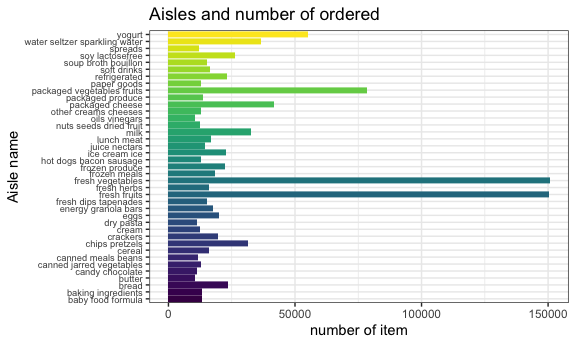
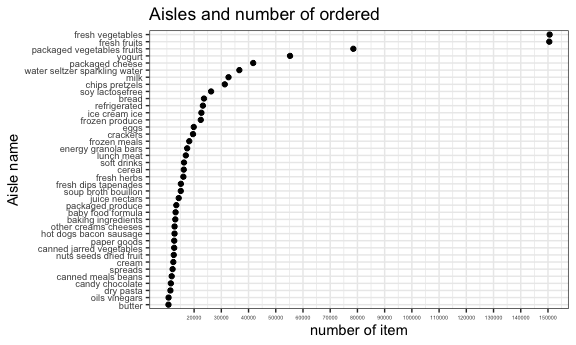
add some comments and change some format

diff --git a/p8105_hw3_fs2757.md b/p8105_hw3_fs2757.md
@@ -38,18 +38,12 @@ aisle, department.*
 ### How many aisles are there, and which aisles are the most items ordered from?
 
 ``` r
-instacart %>% 
+totalaisle=instacart %>% 
   group_by(aisle) %>% 
   summarize(asisle = n()) %>% 
   count()%>% 
   knitr::kable()
-```
-
-|   n |
-|----:|
-| 134 |
-
-``` r
+  
 instacart %>% 
   group_by(aisle) %>% 
   summarize(count = n())%>% 
@@ -195,7 +189,7 @@ instacart %>%
 | beauty                        |    287 |
 
 *In the data `instacart`, there are 134 aisles. Furthermore, the most
-items orders form the data is `fresh vegetables`. *
+items orders form the data is `fresh vegetables` and it has 150609.*
 
 ### Make a plot that shows the number of items ordered in each aisle, limiting this to aisles with more than 10000 items ordered. Arrange aisles sensibly, and organize your plot so others can read it.
 
@@ -203,15 +197,26 @@ items orders form the data is `fresh vegetables`. *
 instacart%>% 
   group_by(aisle) %>% 
   summarize(count = n()) %>% 
-  filter(count > 10000) %>% 
+  mutate(aisle = fct_reorder(factor(aisle), count))%>%
+  filter(count > 10000) %>%
   ggplot() +
-  geom_bar(aes(x = count, y = aisle, fill = aisle),stat = 'identity') +
-  labs(title = "Aisles and number of ordered ",x = "number of item", y = "Aisle name",) +
+  geom_point(aes(x = count, y = aisle, fill = aisle),stat = 'identity') +
+  labs(title = "Aisles and number of ordered ",
+       x = "number of item", 
+       y = "Aisle name",) +
   theme_bw() + 
-  theme(legend.position = 'none',axis.text.y = element_text(size = 7))
+  theme(legend.position = 'none',
+        axis.text.y = element_text(size = 7),
+        axis.text.x = element_text(size = 4))+
+  scale_x_continuous(
+    breaks = c(20000,30000, 40000, 50000, 60000,70000, 80000,90000, 100000,110000 ,120000, 130000,140000,150000, 160000)
+    )
 ```
 
 <img src="p8105_hw3_fs2757_files/figure-gfm/unnamed-chunk-3-1.png" width="90%" />
+
+*In the plot, it is obviously shows that fresh vegetables and fresh
+fruits are exceed 100000.*
 
 ### Make a table showing the three most popular items in each of the aisles “baking ingredients”, “dog food care”, and “packaged vegetables fruits”. Include the number of times each item is ordered in your table.
 
@@ -260,7 +265,10 @@ mean = instacart %>%
   filter(product_name == c("Pink Lady Apples" ,"Coffee Ice Cream"))%>%
   group_by(product_name, order_dow) %>% 
   summarize(meanhour = mean(order_hour_of_day)) %>% 
-  pivot_wider(names_from = order_dow, values_from = meanhour)
+  pivot_wider(
+    names_from = order_dow, 
+    values_from = meanhour
+    )
 ```
 
     ## Warning in product_name == c("Pink Lady Apples", "Coffee Ice Cream"): longer
@@ -292,7 +300,9 @@ data("brfss_smart2010")
 ``` r
 BRFSS = brfss_smart2010 %>%
   janitor::clean_names()%>%
-  filter(topic %in%  "Overall Health",response %in%  c("Poor", "Fair", 'Good', 'Very good',"Excellent"))%>%
+  filter(topic %in%  "Overall Health",
+         response %in%  c("Poor", "Fair", 'Good', 'Very good',"Excellent"))%>%
+  rename(state = locationabbr) %>% 
   mutate(response = forcats::fct_relevel(response,c("Poor", "Fair", "Good", "Very good", "Excellent")))
 ```
 
@@ -301,46 +311,46 @@ BRFSS = brfss_smart2010 %>%
 ``` r
 BRFSS %>% 
   filter(year == 2002) %>% 
-  group_by(locationabbr)%>% 
+  group_by(state)%>% 
   summarise(countnumnber = n_distinct(locationdesc)) %>% 
   filter(countnumnber >= 7) %>% 
   knitr::kable()
 ```
 
-| locationabbr | countnumnber |
-|:-------------|-------------:|
-| CT           |            7 |
-| FL           |            7 |
-| MA           |            8 |
-| NC           |            7 |
-| NJ           |            8 |
-| PA           |           10 |
+| state | countnumnber |
+|:------|-------------:|
+| CT    |            7 |
+| FL    |            7 |
+| MA    |            8 |
+| NC    |            7 |
+| NJ    |            8 |
+| PA    |           10 |
 
 ``` r
 BRFSS %>% 
   filter(year == 2010) %>% 
-  group_by(locationabbr)%>% 
+  group_by(state)%>% 
   summarise(countnumnber = n_distinct(locationdesc)) %>% 
   filter(countnumnber >= 7) %>% 
   knitr::kable()
 ```
 
-| locationabbr | countnumnber |
-|:-------------|-------------:|
-| CA           |           12 |
-| CO           |            7 |
-| FL           |           41 |
-| MA           |            9 |
-| MD           |           12 |
-| NC           |           12 |
-| NE           |           10 |
-| NJ           |           19 |
-| NY           |            9 |
-| OH           |            8 |
-| PA           |            7 |
-| SC           |            7 |
-| TX           |           16 |
-| WA           |           10 |
+| state | countnumnber |
+|:------|-------------:|
+| CA    |           12 |
+| CO    |            7 |
+| FL    |           41 |
+| MA    |            9 |
+| MD    |           12 |
+| NC    |           12 |
+| NE    |           10 |
+| NJ    |           19 |
+| NY    |            9 |
+| OH    |            8 |
+| PA    |            7 |
+| SC    |            7 |
+| TX    |           16 |
+| WA    |           10 |
 
 *In 2002, there are six states were observed at 7 or more locations, and
 the are CT,FL,MA,NC,NJ,PA. In 2010, there are 14 states were observed at
@@ -352,15 +362,17 @@ CA,CO,FL,MA,MD,NC,NE,NJ,NY,OH,PA,SC,TX,WA.*
 ``` r
 BRFSS%>%
   filter(response == c('Excellent'))%>%
-  group_by(locationabbr,year)%>%
+  group_by(state,year)%>%
   summarise(mean = mean(data_value))%>%
-  ggplot(aes(x = year, y = mean,color = locationabbr)) + 
+  ggplot(aes(x = year, 
+             y = mean,
+             color = state)) + 
   geom_point() + 
   geom_line() + 
   theme(legend.position = "right")
 ```
 
-    ## `summarise()` has grouped output by 'locationabbr'. You can override using the `.groups` argument.
+    ## `summarise()` has grouped output by 'state'. You can override using the `.groups` argument.
 
     ## Warning: Removed 4 rows containing missing values (geom_point).
 
@@ -372,12 +384,17 @@ BRFSS%>%
 
 ``` r
 BRFSS %>% 
-  filter(locationabbr ==  c("NY"),year == c(2006,2010))%>% 
+  filter(state ==  c("NY"),year == c(2006,2010))%>% 
   select(year,response,data_value)%>% 
-  ggplot(aes(x = response, y = data_value)) +
+  ggplot(aes(x = response, 
+             y = data_value)) +
   geom_point() +
   geom_boxplot()+
-  facet_grid(. ~ year)
+  labs(
+    title="Distribution of data",
+    x="Response",
+    y="Data Value"
+  )
 ```
 
     ## Warning in year == c(2006, 2010): longer object length is not a multiple of
@@ -385,12 +402,36 @@ BRFSS %>%
 
 <img src="p8105_hw3_fs2757_files/figure-gfm/unnamed-chunk-10-1.png" width="90%" />
 
+``` r
+  facet_grid(. ~ year)
+```
+
+    ## <ggproto object: Class FacetGrid, Facet, gg>
+    ##     compute_layout: function
+    ##     draw_back: function
+    ##     draw_front: function
+    ##     draw_labels: function
+    ##     draw_panels: function
+    ##     finish_data: function
+    ##     init_scales: function
+    ##     map_data: function
+    ##     params: list
+    ##     setup_data: function
+    ##     setup_params: function
+    ##     shrink: TRUE
+    ##     train_scales: function
+    ##     vars: function
+    ##     super:  <ggproto object: Class FacetGrid, Facet, gg>
+
+*In the graph, most of data value are excellent, very good and good
+respones, and it more than poor and fair.*
+
 # Problem 3
 
 ### Load, tidy, and otherwise wrangle the data. Your final dataset should include all originally observed variables and values; have useful variable names; include a weekday vs weekend variable; and encode data with reasonable variable classes. Describe the resulting dataset (e.g. what variables exist, how many observations, etc).
 
 ``` r
-acceldata=read_csv("accel_data.csv")%>% 
+acceldata=read_csv("data/accel_data.csv")%>% 
   janitor::clean_names()%>%
   pivot_longer(activity_1:activity_1440, 
                names_to = "minute",
@@ -461,9 +502,9 @@ acceldata %>%
 | 1858699 | 1799238 |   2129772 |  2091151 | 2291711 |  1369237 | 1919213 |
 
 *From two table,it is obviously shows that the weekdays are higher than
-weekend.*
+weekend. In the weekdays, the total activities are increase.*
 
-### Accelerometer data allows the inspection activity over the course of the day. Make a single-panel plot that shows the 24-hour activity time courses for each day and use color to indicate day of the week. Describe in words any patterns or conclusions you can make based on this graph.
+### Accelerometer data allows the inspection activit.y over the course of the day. Make a single-panel plot that shows the 24-hour activity time courses for each day and use color to indicate day of the week. Describe in words any patterns or conclusions you can make based on this graph.
 
 ``` r
 acceldata %>% 
@@ -473,10 +514,15 @@ acceldata %>%
       title = "24h activity time",
       x = "minute",
       y = "activity Count",
-    caption = "single-panel plot")
+    caption = "single-panel plot")+
+    scale_x_continuous(
+      breaks = c(0, 240, 480, 720, 960, 1200, 1440), 
+      labels = c("00:00", "04:00", "08:00", "12:00", "16:00", "20:00", "23:59pm")
+    )
 ```
 
 <img src="p8105_hw3_fs2757_files/figure-gfm/unnamed-chunk-13-1.png" width="90%" />
 
-*From the table,Sunday at noon has the most active periods, and Friday
-in the evening has the most active periods.*
+*From the table, the time period between 6am,
+7am,8am,9am,12pm,4pm,8pm,9pm and10pm are more higher, and Wednesday and
+Friday are more higher on those time.*
